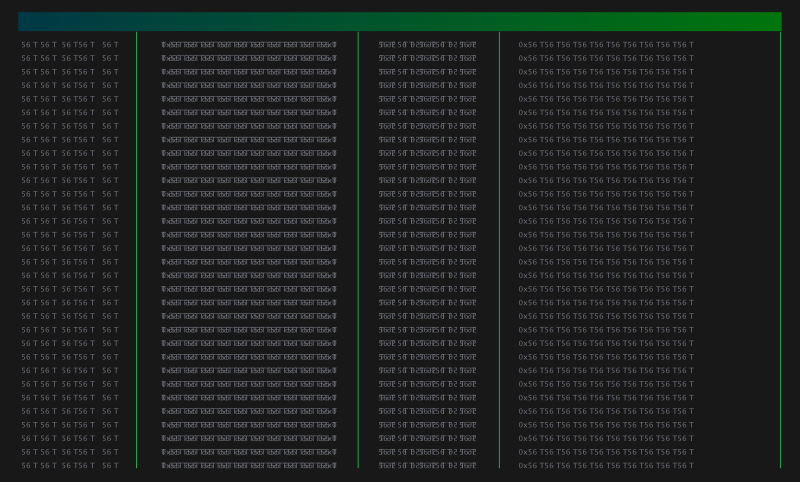
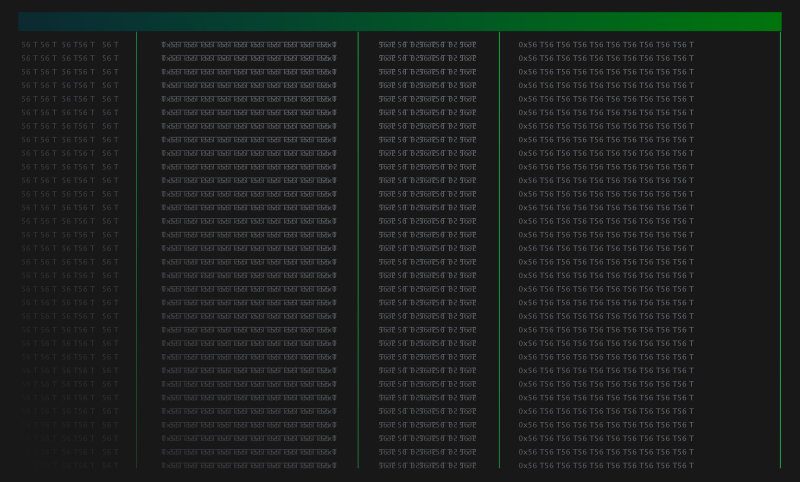
introducing blue colour-scheme (wip)

diff --git a/src/css/components/general.scss b/src/css/components/general.scss
@@ -251,6 +251,9 @@ a {
     .item {
       h3 {
         font-size: 30px;
+        background: -webkit-linear-gradient(-60deg, var(--secondary), var(--yellow) 220%);
+        -webkit-background-clip: text;
+        -webkit-text-fill-color: transparent;
         @media (max-width: $content) {
           font-size: 28px;
         }
@@ -304,7 +307,8 @@ a {
       gap: 20px;
       padding: 20px;
       border-radius: 20px;
-      background-color: var(--neutral-8);
+      background-color: var(--neutral-10);
+      color: var(--neutral-3);
       width: calc(30vw - 60px);
       margin-bottom: auto;
       &:first-of-type {
@@ -352,7 +356,8 @@ a {
       gap: 20px;
       padding: 20px;
       border-radius: 20px;
-      background-color: var(--neutral-8);
+      background-color: var(--neutral-10);
+      color: var(--neutral-3);
       width: calc(25vw - 60px);
       margin-bottom: auto;
       transition: 100ms ease;
@@ -406,7 +411,7 @@ a {
     .graphic {
       width: #{($content / 2) - 40px};
       max-width: 80vw;
-      background-color: var(--neutral-8);
+      background-color: var(--black);
       border-radius: 30px;
       aspect-ratio: 1/1;
       position: relative;
@@ -414,7 +419,7 @@ a {
         overflow: hidden;
       }
       &.stage {
-        background: radial-gradient(var(--neutral-7), var(--neutral-8));
+        background: radial-gradient(var(--neutral-7), var(--black));
       }
       @media (max-width: $small) {
         grid-row: 1/2;
@@ -424,7 +429,8 @@ a {
         min-height: 200%;
         margin-left: 50%;
         transition: 100ms ease;
-        transform: translateX(-50%) translateY(calc(-50% - (var(--pc) * 0.1))) rotate(var(--deg-raw));
+        transform: translateX(-50%) translateY(calc(-50% - (var(--pc) * 0.1))) rotate(calc(60deg + var(--deg-raw)));
+        opacity: calc(1 - (var(--dec-raw) * 1));
         margin-top: 125%;
       }
       .img {
@@ -453,13 +459,16 @@ a {
       }
       #chart-0,
       .right {
-        transform: rotate3d(2, 2, 0.5, calc(90deg - (var(--deg-raw) * 0.9))) scale(1.2)
-          translateX(calc(0% + (var(--pc-raw) * 0.1)));
+        transform: rotate3d(-2, 2, 0.5, calc(90deg - (var(--deg-raw) * 0.9))) scale(1.2)
+          translateX(calc(20% - (var(--pc-raw) * 0.15)));
+        transform-style: preserve-3d;
       }
       #chart-1,
       .left {
-        transform: rotate3d(2, 2, 0.5, calc(-90deg + (var(--deg-raw) * 0.9))) scale(1.2)
-          translateX(calc(0% - (var(--pc-raw) * 0.1)));
+        transform: rotateY(calc(-60deg + (var(--deg-raw) * 0.6))) rotateX(calc(-90deg + (var(--deg-raw) * 0.9)))
+          rotateZ(calc(-20deg + (var(--deg-raw) * 0.2))) scale(1.2) translateX(calc(-20% + (var(--pc-raw) * 0.15)));
+        // transform: rotate3d(2, 2, 0.5, calc(-90deg + (var(--deg-raw) * 0.9))) scale(1.2) translateX(calc(0% - (var(--pc-raw) * 0.1)));
+        transform-style: preserve-3d;
       }
     }
   }

diff --git a/src/css/components/colours.scss b/src/css/components/colours.scss
@@ -32,11 +32,15 @@
 // }
 
 .blue{
-  --primary: var(--blue-1);
-  --secondary: var(--blue-2);
-  --yellow: var(--blue-3);
+  // --primary: var(--blue-1);
+  // --secondary: var(--blue-2);
+  // --yellow: var(--blue-3);
+  --primary: var(--green-1);
+  --secondary: var(--green-2);
+  --yellow: var(--green-3);
   &.content{
-    --neutral-8: var(--blue-03);
+    --neutral-8: var(--green-2);
+    --neutral-7: var(--black);
   }
 }
 
@@ -59,9 +63,9 @@ body{
   --neutral-1: #dddddd;
   --neutral-0: #fafafa;
 
-  --green-1: #66FF00;
-  --green-2: #46CB18;
-  --green-3: #FFFF00;
+  --green-1: #0062ff;
+  --green-2: #3783ff;
+  --green-3: #ff337e;
 
   --blue-01: #0043FF;
   --blue-02: #0017FF;

diff --git a/src/css/components/hero.scss b/src/css/components/hero.scss
@@ -12,7 +12,7 @@
     content: "";
     position: absolute;
     width: 100vw;
-    background: linear-gradient(var(--moss), var(--moss));
+    background: linear-gradient(var(--primary), var(--primary));
     z-index: 0;
     opacity: 0.1;
     height: calc(100% + (var(--margin) * 1.2));
@@ -101,7 +101,7 @@
         }
         .type-target-2 {
           font-weight: 800;
-          background: -webkit-linear-gradient(60deg, var(--primary), var(--yellow));
+          background: -webkit-linear-gradient(-60deg, var(--secondary), var(--yellow)220%);
           -webkit-background-clip: text;
           -webkit-text-fill-color: transparent;
         }

diff --git a/src/css/components/nav.scss b/src/css/components/nav.scss
@@ -67,6 +67,7 @@
   border-radius: $content;
   z-index: 10;
   position: relative;
+  gap: 20px;
   @media (max-width: $content) {
     border-radius: 0px;
     margin: 0;
@@ -90,11 +91,12 @@
     flex-direction: row;
     gap: 20px;
     align-items: center;
+    margin-left: auto;
     // font-family: $sans-serif;
     .link {
       display: inline-flex;
       align-items: center;
-      font-size: calc(22px / #{$r});
+      // font-size: calc(22px / #{$r});
       gap: 0.5rem;
       line-height: 1;
       opacity: 0.5;

diff --git a/src/css/components/footer.scss b/src/css/components/footer.scss
@@ -6,7 +6,7 @@
   &:after {
     display: block;
     content: "";
-    background: linear-gradient(60deg, var(--secondary) -400%, var(--neutral-9));
+    background: linear-gradient(60deg, var(--secondary) -400%, var(--black));
     height: 100%;
     width: 100vw;
     left: 50%;
